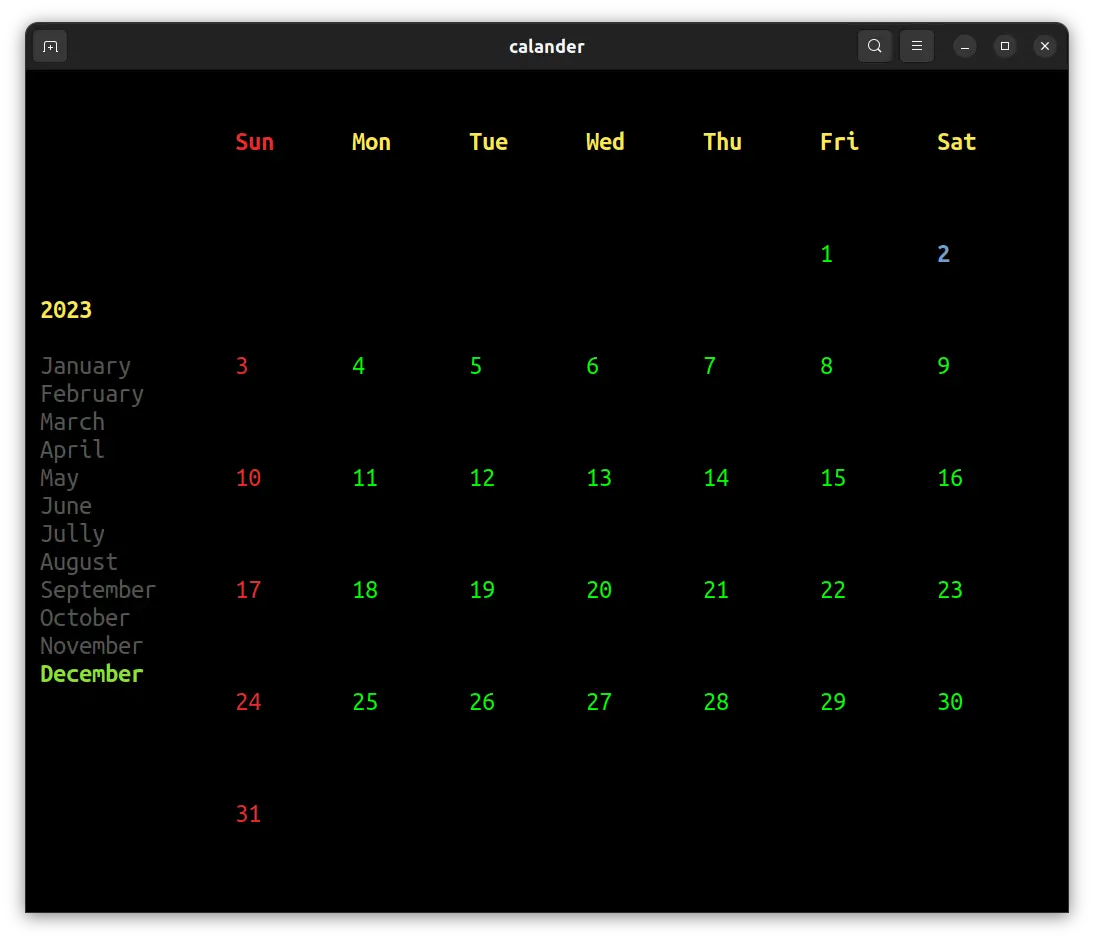
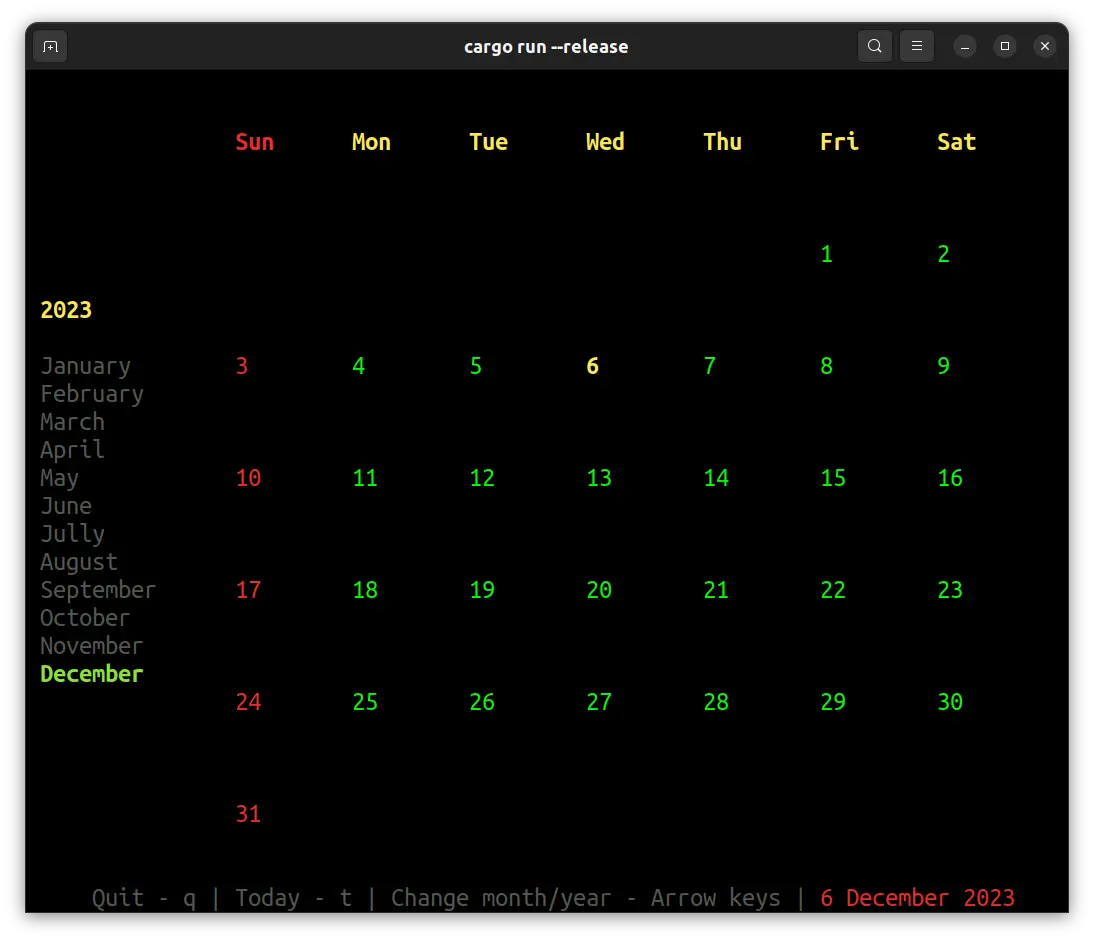
added status line, added licensewq

diff --git a/src/lib.rs b/src/lib.rs
@@ -33,6 +33,8 @@ const MONTHS: [&str; 12] = [
     "December",
 ];
 
+const STATUS_LINE_CONTROLS: &str = "Quit - q | Today - t | Change month/year - Arrow keys |";
+
 pub fn run(date: Option<Date>) -> crossterm::Result<()> {
     let mut ui = Ui::init(date)?;
     ui.run()?;
@@ -52,6 +54,15 @@ impl Ui {
             None => Calander::today(),
         };
         Ok(Self { calander })
+    }
+
+    fn get_today_as_text(&self) -> String {
+        format!(
+            "{} {} {}",
+            self.calander.today.0,
+            &MONTHS[self.calander.today.1 as usize - 1],
+            self.calander.today.2,
+        )
     }
 
     fn update_screen(&self) -> crossterm::Result<()> {
@@ -97,7 +108,7 @@ impl Ui {
                     cursor::MoveTo(position_x(&(week as u16)), position_y(&line)),
                 )?;
                 if date == self.calander.day {
-                    queue!(stdout, Print(date.to_string().blue().bold()))?;
+                    queue!(stdout, Print(date.to_string().yellow().bold()))?;
                 } else if week == 0 {
                     queue!(stdout, Print(date.to_string().red()))?;
                 } else {
@@ -124,6 +135,20 @@ impl Ui {
                 queue!(stdout, Print(month.dark_grey()))?;
             }
         }
+        queue!(
+            stdout,
+            cursor::MoveTo(
+                (term_size.0
+                    - (STATUS_LINE_CONTROLS.len() + self.get_today_as_text().len()) as u16)
+                    / 2,
+                term_size.1 - 1
+            ),
+            Print(format!(
+                "{} {}",
+                STATUS_LINE_CONTROLS.dark_grey(),
+                self.get_today_as_text().red(),
+            ))
+        )?;
         stdout.flush()?;
         Ok(())
     }

diff --git a/docs/README.md b/docs/README.md
@@ -28,18 +28,8 @@ Month and year can be passed as command line arguements in respective order to s
 
 ## Build on local system
 
-Clone the repository and build the project using cargo
+Build using cargo
 
-Clone the repository
-
-```
-git clone https://github.com/youaremagic/calander
-```
-Change directory
-```
-cd calander
-```
-Build
 ```
 cargo build
 ```
